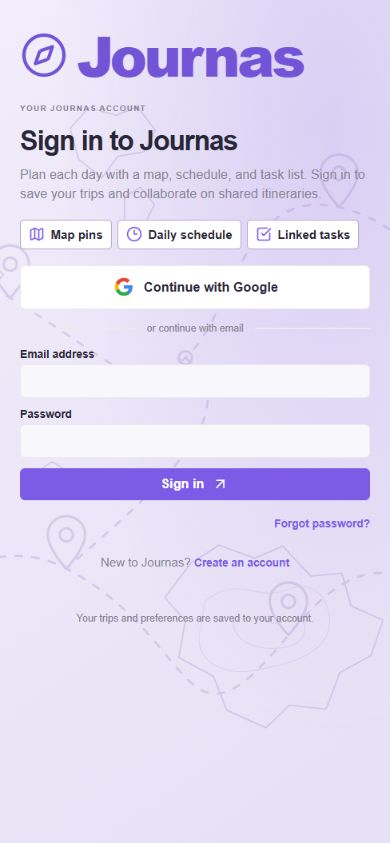
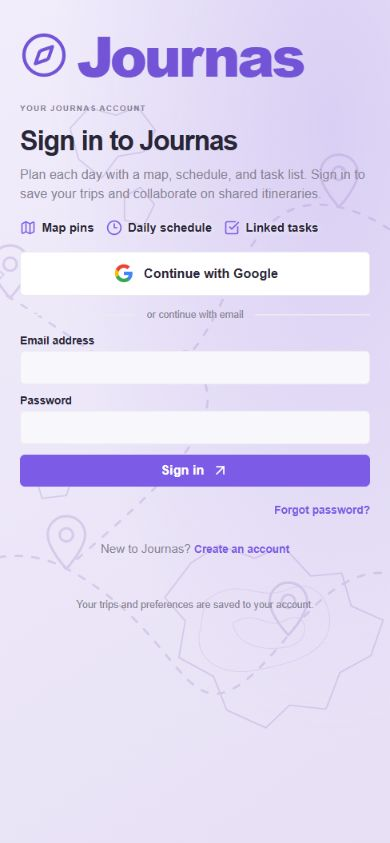
Simplify feature labels and correct Journas Trip Planner title

diff --git a/src/style.css b/src/style.css
@@ -1005,7 +1005,7 @@ textarea {
 }
 .art-badges {
   display: flex;
-  gap: 6px;
+  gap: 12px;
   margin-top: 16px;
   flex-wrap: wrap;
 }
@@ -1014,12 +1014,9 @@ textarea {
   gap: 6px;
   align-items: center;
   font-size: 12px;
-  font-weight: 600;
+  font-weight: 700;
   color: var(--ink);
-  background: var(--surface);
-  border: 1px solid var(--auth-divider);
-  border-radius: 4px;
-  padding: 6px 8px;
+  text-shadow: 0 0 5px var(--bg);
 }
 .auth-form {
   padding: 28px;

diff --git a/index.html b/index.html
@@ -8,7 +8,7 @@
       name="description"
       content="Journas brings your places, daily schedule, and shared travel tasks together."
     />
-    <title>Journas · Trip planner</title>
+    <title>Journas Trip Planner</title>
   </head>
   <body>
     <div id="root"></div>
